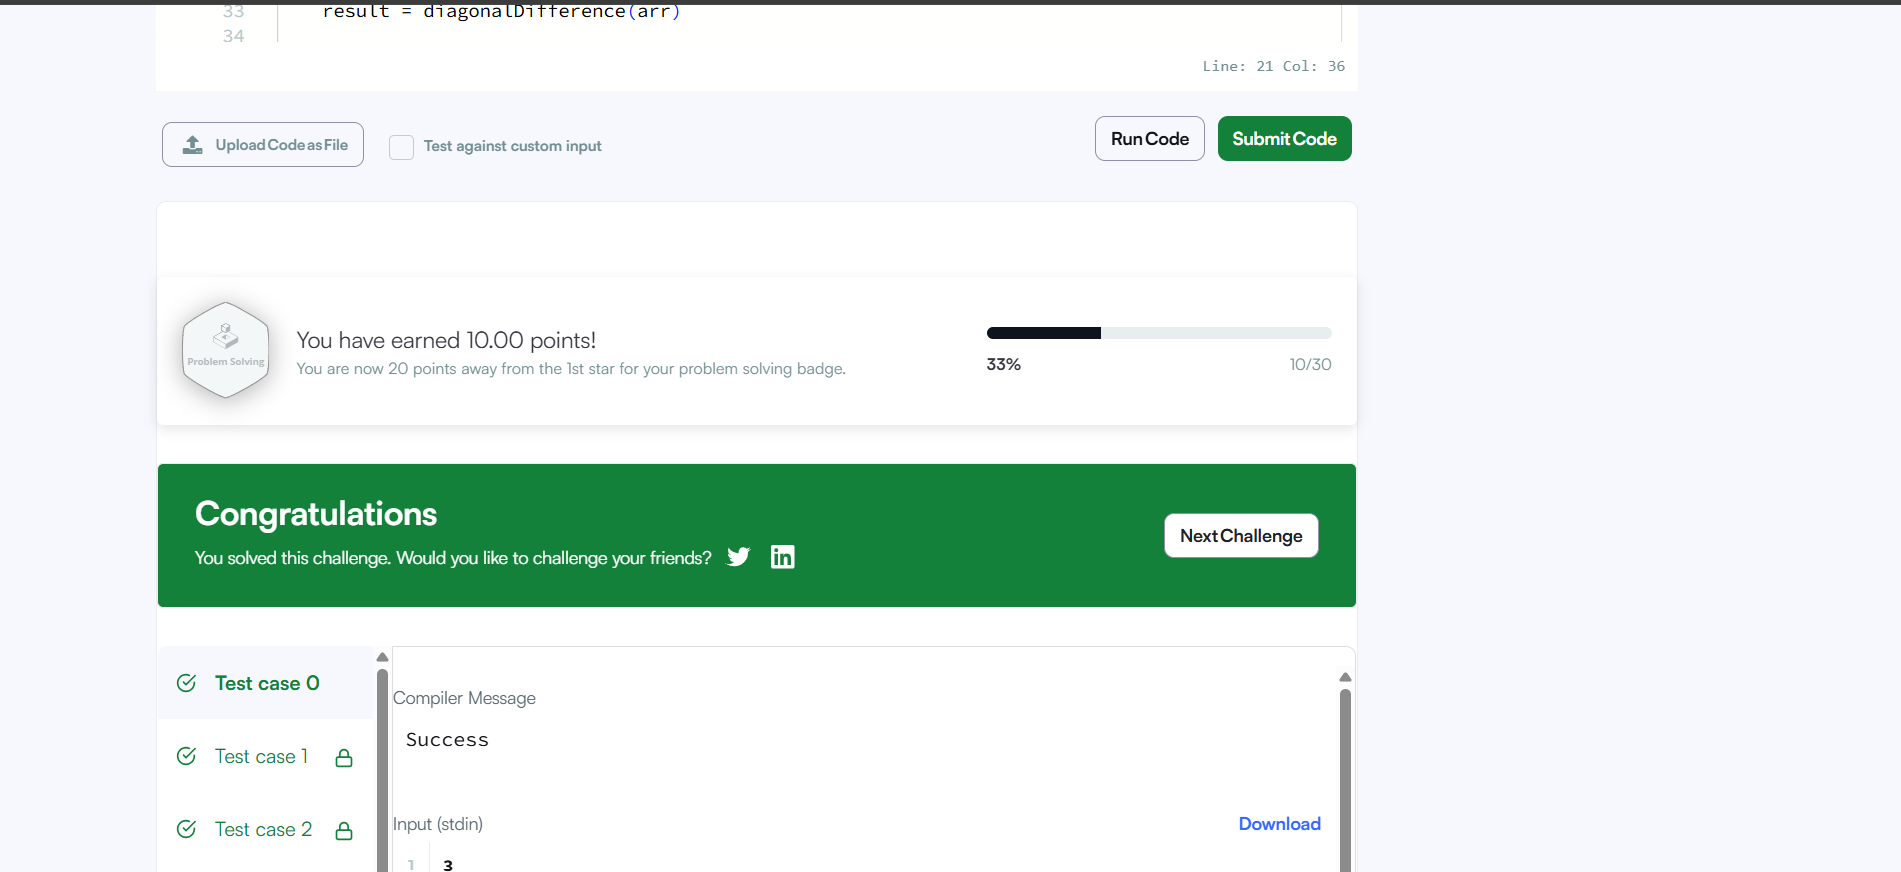
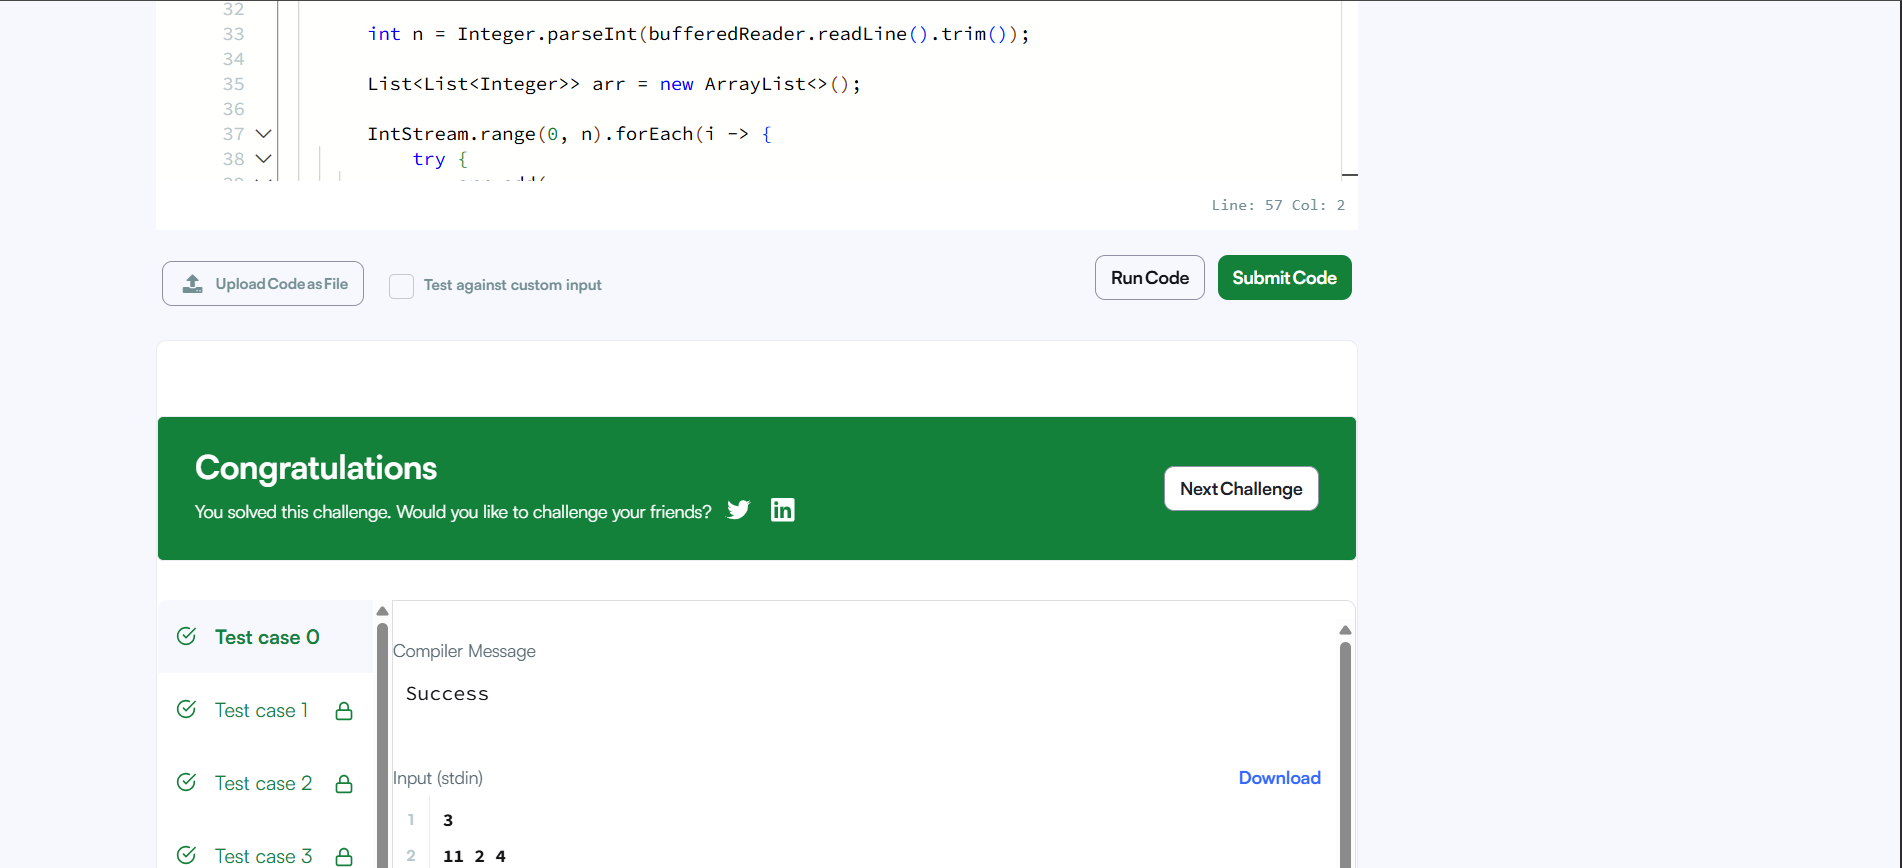
Implement Problem 1: Diagonal Difference in Java

diff --git a/01-diagonal-difference/Solution.java b/01-diagonal-difference/Solution.java
@@ -1,0 +1,29 @@
+// Problem: Diagonal Difference
+// Topic: 2D Arrays / Matrices
+// Time Complexity: O(N) - single pass across N rows
+// Space Complexity: O(1) - only two running sum variables used
+
+import java.util.*;
+
+public class Solution {
+    public static int diagonalDifference(List<List<Integer>> arr) {
+        int n = arr.size();
+        int primarySum = 0;
+        int secondarySum = 0;
+
+        for (int i = 0; i < n; i++) {
+            primarySum += arr.get(i).get(i);
+            secondarySum += arr.get(i).get(n - 1 - i);
+        }
+        return Math.abs(primarySum - secondarySum);
+    }
+
+    public static void main(String[] args) {
+        List<List<Integer>> sampleMatrix = Arrays.asList(
+            Arrays.asList(11, 2, 4),
+            Arrays.asList(4, 5, 6),
+            Arrays.asList(10, 8, -12)
+        );
+        System.out.println("Diagonal Difference: " + diagonalDifference(sampleMatrix));
+    }
+}
